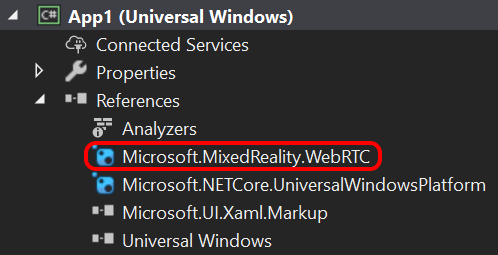
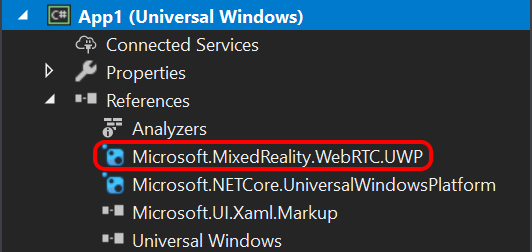
Fix package name in stub docs for C# UWP tutorial

Changed region(s): [[0.0, 0.0, 1.0, 1.0], [0.1807, 0.8056, 0.6627, 0.8889], [0.1807, 0.9167, 0.5422, 1.0]]

diff --git a/docs/manual/cs/helloworld-cs-setup-uwp.md b/docs/manual/cs/helloworld-cs-setup-uwp.md
@@ -47,13 +47,13 @@ In the **Solution Explorer**, right-click on the **App1 (Universal Windows)** C#
 
 ![Installed NuGet packages](cs-uwp5.png)
 
-Select the **Browse** tab and, after making sure that the **Package source** is set to **nuget.org**, select the **Microsoft.MixedReality.WebRTC** NuGet package and click **Install**.
+Select the **Browse** tab and, after making sure that the **Package source** is set to **nuget.org**, select the **Microsoft.MixedReality.WebRTC.UWP** NuGet package and click **Install**.
 
 ![Install the MixedReality-WebRTC NuGet package](cs-uwp6.png)
 
 _Note_: If you cannot find the package, make sure that **Include prerelease** is checked, which disables filtering out preview packages (those packages with a version containing a suffix like "-preview" after the X.Y.Z version number).
 
-This will download from [nuget.org](https://www.nuget.org/) and install the `Microsoft.MixedReality.WebRTC.nupkg` NuGet package, which contains the same-named assembly, as well as its native dependencies for both Desktop and UWP platforms.
+This will download from [nuget.org](https://www.nuget.org/) and install the `Microsoft.MixedReality.WebRTC.UWP.nupkg` NuGet package, which contains the `Microsoft.MixedReality.WebRTC.dll` assembly, as well as its native dependencies (x86, x64, ARM) for the UWP platform.
 
 After that, the `App1` project should contain a reference to the package.
 
@@ -64,7 +64,11 @@ After that, the `App1` project should contain a reference to the package.
 
 In order to ensure everything works fine and the `Microsoft.MixedReality.WebRTC` assembly can be used, we will use one of its functions to list the video capture devices, as a test. This makes uses of the static method [`PeerConnection.GetVideoCaptureDevicesAsync()`](cref:Microsoft.MixedReality.WebRTC.PeerConnection.GetVideoCaptureDevicesAsync). This is more simple than creating objects, as there is no clean-up needed after use.
 
-In `MainPage.xaml.cs`:
+First, because this sample application is a UWP application, it needs to declare some capabilities to access the microphone and webcam on the host device. In the **Solution Explorer** of Visual Studio, double-click on the `Package.appxmanifest` to open the AppX manifest of the app and select the **Capabilities** tab. Check **Microphone** and **Webcam**, and confirm that **Internet (Client)** is already checked.
+
+![Configure the UWP app capabilities](cs-uwp8.png)
+
+Next, edit `MainPage.xaml.cs`:
 
 1. At the top of the file, add some `using` statement to import the `Microsoft.MixedReality.WebRTC` assembly. Also import the `System.Diagnostics` module, as we will be using the `Debugger` class to print debug information to the Visual Studio output window.
    ```cs
@@ -81,35 +85,38 @@ In `MainPage.xaml.cs`:
    }
    ```
 
-3. Create the event handler `OnLoaded()` and use it to enumerate the video capture devices. `GetVideoCaptureDevicesAsync()` returns a `Task` object which, once the task is completed successfully, will hold a list of video capture devices found on the host device where the app is running.
+3. Create the event handler `OnLoaded()` and use it to request access from the user to the microphone and camera, and enumerate the video capture devices. The `MediaCapture.InitializeAsync()` call will prompt the user with a dialog to authorize access to the microphone and webcam. The latter be must authorized before calling `PeerConnection.GetVideoCaptureDevicesAsync()`, while the former will be needed in the following of the tutorial for calls like `PeerConnection.AddLocalAudioTrackAsync()`.
    ```cs
    private void OnLoaded(object sender, RoutedEventArgs e)
    {
-       // Asynchronously retrieve a list of available video capture devices (webcams).
-       PeerConnection.GetVideoCaptureDevicesAsync().ContinueWith((enumTask) => {
-           // Abort if the device enumeration failed
-           if (enumTask.Exception != null)
-           {
-               throw enumTask.Exception;
-           }
+       private async void OnLoaded(object sender, RoutedEventArgs e)
+       {
+           // Request access to microphone and camera
+           var settings = new MediaCaptureInitializationSettings();
+           settings.StreamingCaptureMode = StreamingCaptureMode.AudioAndVideo;
+           var capture = new MediaCapture();
+           await capture.InitializeAsync(settings);
+  
+           // Retrieve a list of available video capture devices (webcams).
+           List<VideoCaptureDevice> deviceList = await PeerConnection.GetVideoCaptureDevicesAsync(); 
+ 
            // Get the device list and, for example, print them to the debugger console
-           var devices = enumTask.Result;
-           foreach (var device in devices)
+           foreach (var device in deviceList)
            {
                // This message will show up in the Output window of Visual Studio
-               Debugger.Log(0, "", $"Found video capture device {device.name} (id: {device.id})");
+               Debugger.Log(0, "", $"Webcam {device.name} (id: {device.id})\n");
            }
-       });
+       }
    }
    ```
 
 Launch the app again. The main window is still empty, but the **Output window** of Visual Studio 2019 (**View** > **Output**, or **Alt + 2**) should show a list of devices. This list depends on the actual host device running the app, but looks something like:
 ```
-Found video capture device <some webcam name> (id: <some long ID>)
+Webcam <some device name> (id: <some device ID>)
 ```
 
 Note that there might be multiple lines if multiple capture devices are available. In general the first one listed will be the default used by WebRTC, although it is possible to explicitly select a device (see [`PeerConnection.AddLocalVideoTrackAsync`](cref:Microsoft.MixedReality.WebRTC.PeerConnection.AddLocalVideoTrackAsync(Microsoft.MixedReality.WebRTC.PeerConnection.LocalVideoTrackSettings))).
 
 ----
 
-Next : [Creating a peer connection](helloworld-cs-peerconnection.md)
+Next : [Creating a peer connection](helloworld-cs-peerconnection-uwp.md)

diff --git a/docs/manual/cs/helloworld-cs-uwp.md b/docs/manual/cs/helloworld-cs-uwp.md
@@ -1,0 +1,5 @@
+# Hello, C# world! (UWP)
+
+In this tutorial we will create a simple UWP application based on the [MixedReality-WebRTC C# library](xref:Microsoft.MixedReality.WebRTC), with a XAML-based UI.
+
+- [Creating a project](helloworld-cs-setup-uwp.md)
